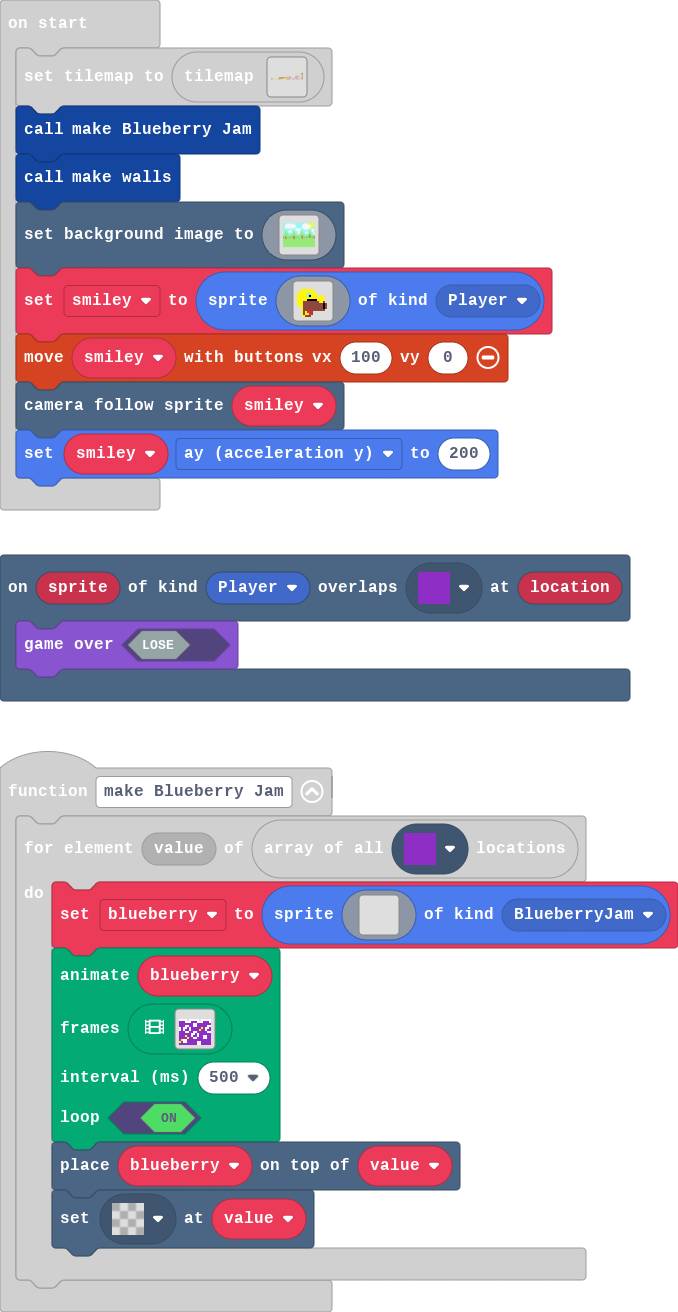
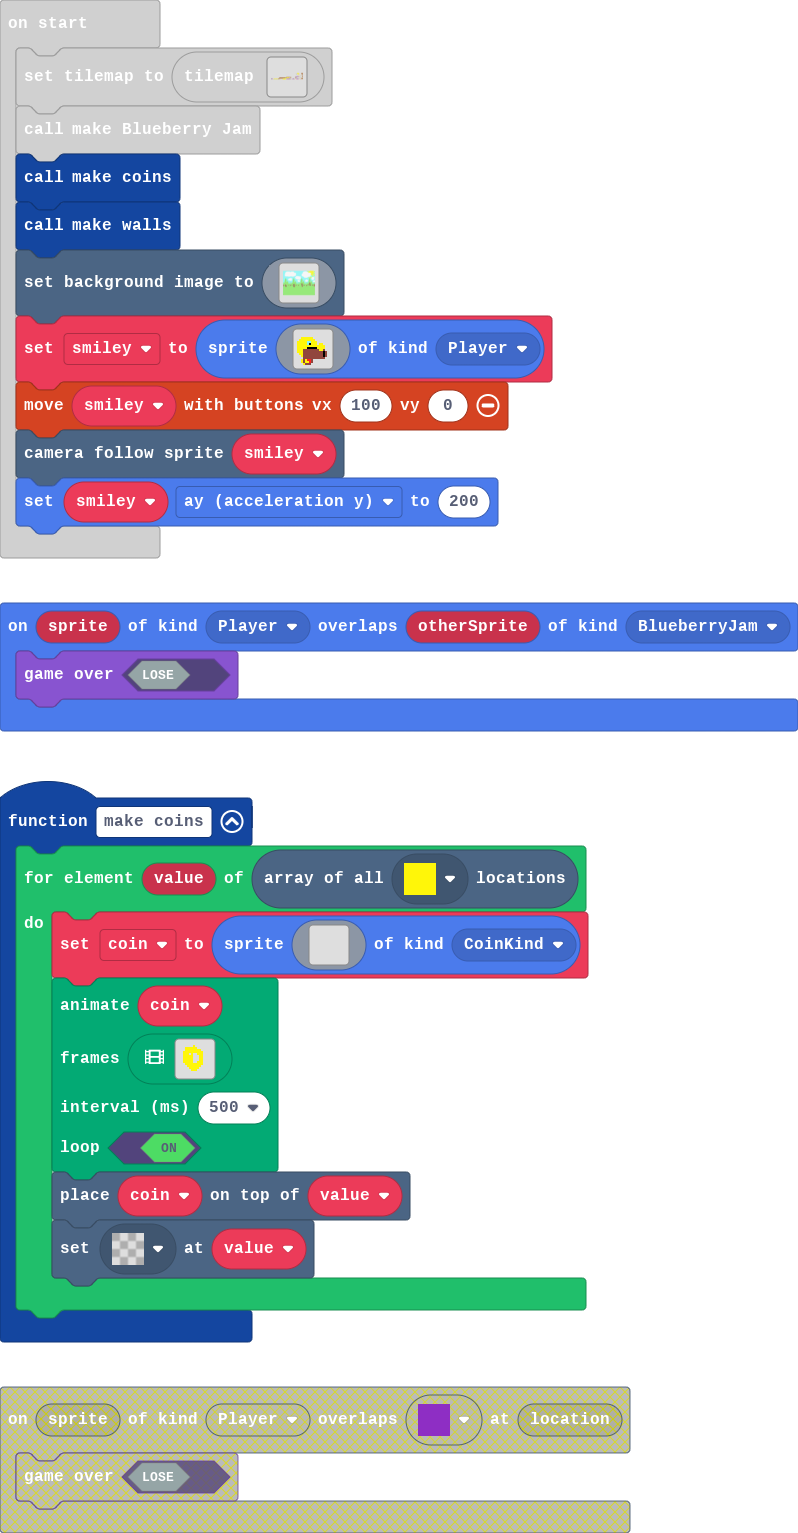
Update main.blocks, main.ts

diff --git a/main.ts b/main.ts
@@ -1,9 +1,108 @@
 namespace SpriteKind {
     export const BlueberryJam = SpriteKind.create()
+    export const CoinKind = SpriteKind.create()
 }
 scene.onOverlapTile(SpriteKind.Player, assets.tile`myTile0`, function (sprite, location) {
     game.gameOver(true)
 })
+function make_coins () {
+    for (let value of tiles.getTilesByType(assets.tile`myTile1`)) {
+        coin = sprites.create(img`
+            . . . . . . . . . . . . . . . . 
+            . . . . . . . . . . . . . . . . 
+            . . . . . . . . . . . . . . . . 
+            . . . . . . . . . . . . . . . . 
+            . . . . . . . . . . . . . . . . 
+            . . . . . . . . . . . . . . . . 
+            . . . . . . . . . . . . . . . . 
+            . . . . . . . . . . . . . . . . 
+            . . . . . . . . . . . . . . . . 
+            . . . . . . . . . . . . . . . . 
+            . . . . . . . . . . . . . . . . 
+            . . . . . . . . . . . . . . . . 
+            . . . . . . . . . . . . . . . . 
+            . . . . . . . . . . . . . . . . 
+            . . . . . . . . . . . . . . . . 
+            . . . . . . . . . . . . . . . . 
+            `, SpriteKind.CoinKind)
+        animation.runImageAnimation(
+        coin,
+        [img`
+            . . . . . . . . . . . . . . . . 
+            . . . . . . . 5 . . . . . . . . 
+            . . . 5 5 5 5 5 5 . . . . . . . 
+            . . . 5 5 5 5 5 5 5 5 . . . . . 
+            . . 5 5 5 5 5 5 5 5 5 5 . . . . 
+            . . 5 5 5 . 5 . . 5 5 5 . . . . 
+            . . 5 5 5 5 5 . . . 5 5 . . . . 
+            . . 5 5 5 5 5 . . . 5 5 . . . . 
+            . . 5 5 5 5 5 . . . 5 5 . . . . 
+            . . 5 5 5 5 5 . . 5 5 5 . . . . 
+            . . . 5 5 5 5 5 5 5 5 5 . . . . 
+            . . . . 5 5 5 5 5 5 5 . . . . . 
+            . . . . . 5 5 5 5 5 . . . . . . 
+            . . . . . . 5 5 5 . . . . . . . 
+            . . . . . . . . . . . . . . . . 
+            . . . . . . . . . . . . . . . . 
+            `,img`
+            . . . . . . . . . 5 . . . . . . 
+            . . . . . . . 5 5 5 . . . . . . 
+            . . . 5 5 5 5 5 5 5 . . . . . . 
+            . . . 5 5 5 5 5 5 5 5 . . . . . 
+            . . 5 5 5 5 5 5 5 5 5 5 . . . . 
+            . . 5 5 5 5 5 5 . 5 5 5 . . . . 
+            . . 5 5 5 5 5 5 . . 5 5 . . . . 
+            . . 5 5 5 5 5 5 . . 5 5 . . . . 
+            . . 5 5 5 5 5 5 . 5 5 5 . 5 5 . 
+            . . 5 5 5 5 5 5 5 5 5 5 5 . 5 . 
+            . . . 5 5 5 5 5 5 5 5 5 . 5 . . 
+            . . . . 5 5 5 5 5 5 5 5 5 . . . 
+            . . . . . 5 5 5 5 5 5 . . . . . 
+            . . . . . . 5 5 5 . 5 . . . . . 
+            . . . . . . . . . . . . . . . . 
+            . . . . . . . . . . . . . . . . 
+            `,img`
+            . . . . 5 5 . . . 5 5 5 5 5 5 . 
+            . . 5 5 5 5 5 5 5 5 . . . . 5 5 
+            5 5 . 5 5 5 5 5 5 5 . . . . . 5 
+            5 . . 5 5 5 5 5 5 5 5 . . . . 5 
+            5 . 5 5 5 5 5 5 5 5 5 5 . . . 5 
+            5 . 5 5 5 5 5 5 . 5 5 5 . . . 5 
+            5 5 5 5 5 5 5 5 . . 5 5 . . . 5 
+            5 . 5 5 5 5 5 5 . . 5 5 . . . 5 
+            5 . 5 5 5 5 5 5 . 5 5 5 . 5 5 5 
+            5 . 5 5 5 5 5 5 5 5 5 5 5 . 5 5 
+            5 . . 5 5 5 5 5 5 5 5 5 . 5 . 5 
+            5 . . . 5 5 5 5 5 5 5 5 5 5 5 5 
+            . 5 5 . . 5 5 5 5 5 5 . . . . 5 
+            . . . 5 5 5 5 5 5 . 5 . . 5 5 . 
+            . . . . . . 5 5 5 5 5 5 5 . . . 
+            . . . . . . . . . . . . . . . . 
+            `,img`
+            . . . . 5 5 . . . 5 5 5 5 5 5 . 
+            . . 5 5 5 5 5 5 5 5 . . 5 5 5 5 
+            5 5 . 5 5 5 5 5 5 5 . . 5 5 . 5 
+            5 5 . 5 5 5 5 5 5 5 5 . 5 . . 5 
+            5 5 5 5 5 5 5 5 5 5 5 5 5 . . 5 
+            5 5 5 5 5 5 5 5 5 5 5 5 5 . . 5 
+            5 5 5 5 5 5 5 5 5 . 5 5 5 . . 5 
+            5 5 5 5 5 5 5 5 5 . 5 5 5 . . 5 
+            5 5 5 5 5 5 5 5 5 5 5 5 5 5 5 5 
+            5 5 5 5 5 5 5 5 5 5 5 5 5 . 5 5 
+            5 5 . 5 5 5 5 5 5 5 5 5 . 5 . 5 
+            5 5 . 5 5 5 5 5 5 5 5 5 5 5 5 5 
+            . 5 5 . 5 5 5 5 5 5 5 5 . . . 5 
+            . . 5 5 5 5 5 5 5 . 5 5 . 5 5 . 
+            . . 5 . 5 . 5 5 5 5 5 5 5 . . . 
+            . . 5 . 5 5 5 5 5 5 5 5 . . . . 
+            `],
+        500,
+        true
+        )
+        tiles.placeOnTile(coin, value)
+        tiles.setTileAt(value, assets.tile`transparency16`)
+    }
+}
 scene.onOverlapTile(SpriteKind.Projectile, sprites.castle.tilePath2, function (sprite, location) {
     sprites.destroy(sprite)
 })
@@ -44,6 +143,9 @@ scene.onOverlapTile(SpriteKind.Projectile, sprites.castle.tilePath3, function (s
 scene.onOverlapTile(SpriteKind.Projectile, sprites.castle.tilePath7, function (sprite, location) {
     sprites.destroy(sprite)
 })
+sprites.onOverlap(SpriteKind.Player, SpriteKind.BlueberryJam, function (sprite, otherSprite) {
+    game.gameOver(false)
+})
 scene.onOverlapTile(SpriteKind.Projectile, sprites.castle.tilePath1, function (sprite, location) {
     sprites.destroy(sprite)
 })
@@ -52,9 +154,6 @@ scene.onOverlapTile(SpriteKind.Projectile, sprites.castle.tilePath4, function (s
 })
 scene.onOverlapTile(SpriteKind.Projectile, sprites.castle.tilePath9, function (sprite, location) {
     sprites.destroy(sprite)
-})
-scene.onOverlapTile(SpriteKind.Player, assets.tile`myTile2`, function (sprite, location) {
-    game.gameOver(false)
 })
 scene.onOverlapTile(SpriteKind.Projectile, sprites.castle.tilePath6, function (sprite, location) {
     sprites.destroy(sprite)
@@ -136,9 +235,11 @@ scene.onOverlapTile(SpriteKind.Projectile, sprites.castle.tilePath8, function (s
 })
 let blueberry: Sprite = null
 let star: Sprite = null
+let coin: Sprite = null
 let smiley: Sprite = null
 tiles.setCurrentTilemap(tilemap`level2`)
 make_Blueberry_Jam()
+make_coins()
 make_walls()
 scene.setBackgroundImage(img`
     9999999999999999999999999999999999999999999999999999999999999999999999999999999999999999999999999999999999999999999999999955555999999555555555555555555555999999
